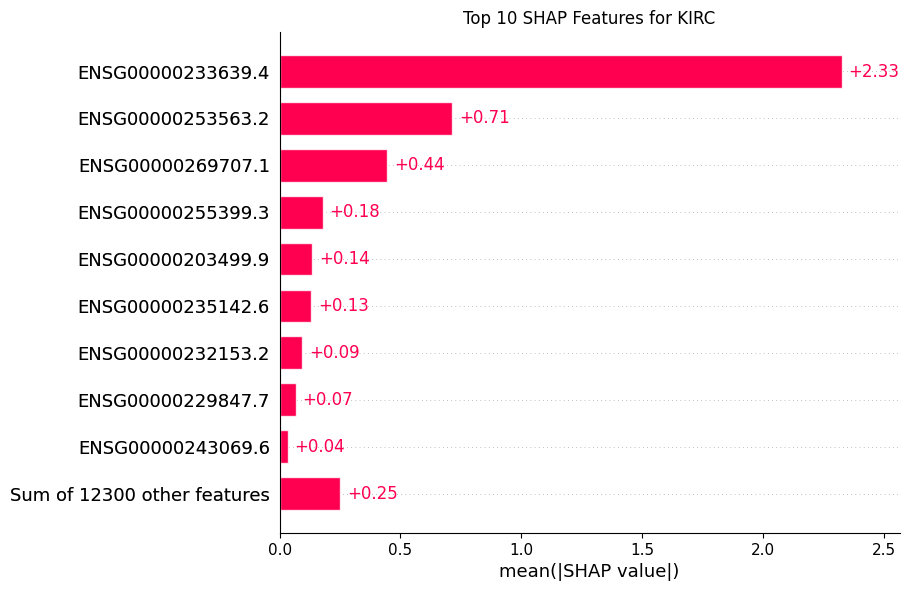
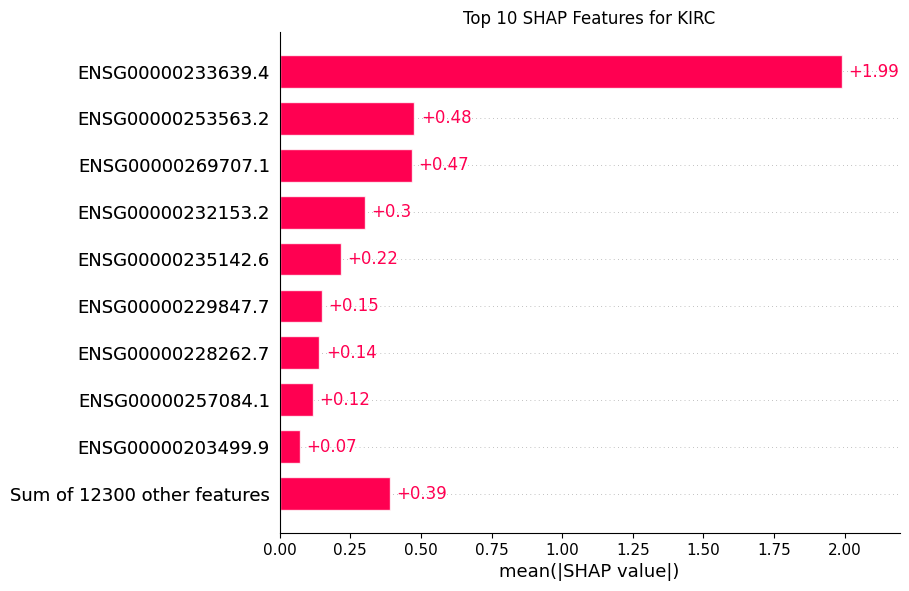
Comitting before it disappears again

diff --git a/Homework3/code/Homework3.py b/Homework3/code/Homework3.py
@@ -100,8 +100,6 @@ def task_one(input, output, algorithms, best):
 
 
 def task_two(input, output, algorithms, best):
-    from sklearn.preprocessing import LabelEncoder
-    import shap
 
     model = algorithms[best["Name"]]
 
@@ -110,7 +108,7 @@ def task_two(input, output, algorithms, best):
     class_names = le.classes_
 
     X_train, X_test, Y_train, Y_test = train_test_split(
-        input, new_out, test_size=0.20, stratify=new_out
+        input, new_out, test_size=0.20, stratify=new_out, random_state=42
     )
 
     print("Training model")
@@ -122,10 +120,11 @@ def task_two(input, output, algorithms, best):
     shap_values = explainer(X_test)
     print("SHAP values computed")
 
-    # ----- Plot top 10 per cancer -----
+    # ----- (a) per-cancer top-10 SHAP features -----
     print("Generating per-cancer top 10 SHAP feature plots...")
 
-    # If multiclass → shap_values.values has shape (n_samples, n_classes, n_features)
+    os.makedirs("Homework3/images", exist_ok=True)
+
     for i, cls in enumerate(class_names):
         print(f"  Plotting top 10 features for {cls}...")
         shap.plots.bar(shap_values[:, :, i], max_display=10, show=False)
@@ -134,7 +133,36 @@ def task_two(input, output, algorithms, best):
         plt.close()
 
     print("All per-cancer SHAP plots saved successfully.")
+
+    # ----- (b) force plots for one patient (ID: TCGA-39-5011-01A) -----
+    print("Generating SHAP force plots for patient TCGA-39-5011-01A...")
+
+    # Find the matching patient row (if present)
+    if "Ensembl_ID" in input.columns:
+        patient_mask = input["Ensembl_ID"] == "TCGA-39-5011-01A"
+    else:
+        patient_mask = input.index == "TCGA-39-5011-01A"
+
+    if patient_mask.sum() > 0:
+        patient_row = input[patient_mask]
+        patient_shap = explainer(patient_row)
+
+        for i, cls in enumerate(class_names):
+            shap.plots.force(
+                explainer.expected_value[i],
+                patient_shap.values[:, :, i],
+                patient_row,
+                matplotlib=True,
+                show=False
+            )
+            plt.title(f"SHAP Force Plot – Patient TCGA-39-5011-01A ({cls})")
+            plt.savefig(f"Homework3/images/shap_force_TCGA-39-5011-01A_{cls}.png", bbox_inches="tight")
+            plt.close()
+        print("Force plots generated successfully.")
+    else:
+        print("Patient TCGA-39-5011-01A not found in dataset.")
     return
+
 
 
 
@@ -232,8 +260,65 @@ def task_three(input, output, algorithms, best):
 
     return metrics, best
 
-def task_four():
-    ...
+def task_four(input, output, algorithms, best, drugs):
+    model = algorithms[best["Name"]]
+
+    drug_names = sorted(drugs.unique())
+
+    X_train, X_test, Y_train, Y_test, drugs_train, drugs_test = train_test_split(
+        input, output, drugs, test_size=0.20, random_state=42
+    )
+
+    print("Training model")
+    model.fit(X_train, Y_train)
+    print("Model Trained")
+
+    print("Creating explainer and computing SHAP values")
+    explainer = shap.TreeExplainer(model)
+    print("Explainer ready")
+
+    os.makedirs("Homework3/images", exist_ok=True)
+
+    # ----- (a) per-drug top-10 SHAP features -----
+    print("Generating per-drug top 10 SHAP feature plots...")
+
+    for drug in drug_names:
+        mask = drugs_test == drug
+        if mask.sum() == 0:
+            continue
+
+        X_sub = X_test[mask]
+        Y_sub = Y_test[mask]
+        shap_values_sub = explainer(X_sub)
+
+        shap.plots.bar(shap_values_sub, max_display=10, show=False)
+        plt.title(f"Top 10 SHAP Features for {drug}")
+        plt.savefig(f"Homework3/images/shap_top10_{drug}.png", bbox_inches="tight")
+        plt.close()
+
+    print("All per-drug SHAP plots saved successfully.")
+
+    # ----- (b) least-error drug–cell-line pair -----
+    print("Finding least-error drug–cell-line pair...")
+    Y_pred = model.predict(X_test)
+    abs_errors = np.abs(Y_pred - Y_test)
+    min_idx = np.argmin(abs_errors)
+
+    least_error_drug = drugs_test.iloc[min_idx]
+    least_error_cell = X_test.index[min_idx]
+
+    print(f"Least-error sample: Drug={least_error_drug}, CellLine={least_error_cell}")
+
+    shap_values_single = explainer(X_test.iloc[[min_idx]])
+
+    shap.plots.bar(shap_values_single, max_display=10, show=False)
+    plt.title(f"Top 10 SHAP Features  {least_error_drug} ({least_error_cell})")
+    plt.savefig(f"Homework3/images/shap_least_error_{least_error_drug}_{least_error_cell}.png", bbox_inches="tight")
+    plt.close()
+
+    print("Least-error SHAP plot saved.")
+    return
+
 
 
 def main():
@@ -265,11 +350,18 @@ def main():
         "Metrics": [float("inf"),float("inf"),float("-inf"),float("inf")]
     }
 
-    df = pd.read_csv("lncRNA_5_Cancers.csv")
+    df1 = pd.read_csv("lncRNA_5_Cancers.csv")
 
-    X = df.drop(['Ensembl_ID', 'Class'], axis=1)
+    X1 = df1.drop(['Ensembl_ID', 'Class'], axis=1)
 
-    Y = df['Class']
+    Y1 = df1['Class']
+
+    df2 = pd.read_csv('hw3-drug-screening-data.csv')
+
+    X2 = df2.drop(['CELL_LINE_NAME', 'DRUG_NAME', 'LN_IC50'], axis=1)
+    Y2 = df2['LN_IC50']
+
+    drugs = df2['DRUG_NAME']
 
     while True:
 
@@ -283,7 +375,7 @@ def main():
 
 
         if cmd.lower() == "task 1":
-            metrics, best = task_one(X, Y, algorithms_classifier, best_classifier)
+            metrics, best = task_one(X1, Y1, algorithms_classifier, best_classifier)
             for name, metric in metrics.items():
                 print(f"================={name} Stats================")
                 print()
@@ -295,10 +387,10 @@ def main():
             print(f"Best Algorithm: {best['Name']} with accuracy: {best['Metrics'][0]} and f1: {best['Metrics'][1]}")
 
         elif cmd.lower() == "task 2":
-            task_two(X, Y, algorithms_classifier, best_classifier)
+            task_two(X2, Y2, algorithms_classifier, best_classifier)
 
         elif cmd.lower() == "task 3":
-            metrics, best = task_three(X, Y, algorithms_regressor, best_regressor)
+            metrics, best = task_three(X2, Y2, algorithms_regressor, best_regressor)
             for name, metric in metrics.items():
                 print(f"================={name} Stats================")
                 print()
@@ -316,7 +408,7 @@ def main():
             print(f"RMSE: {best['Metrics'][3]:.4f}")
 
         elif cmd.lower() == "task 4":
-            ...
+            task_four(X2, Y2, algorithms_regressor, best_regressor, drugs)
 
         elif cmd.lower() == "exit":
             break
